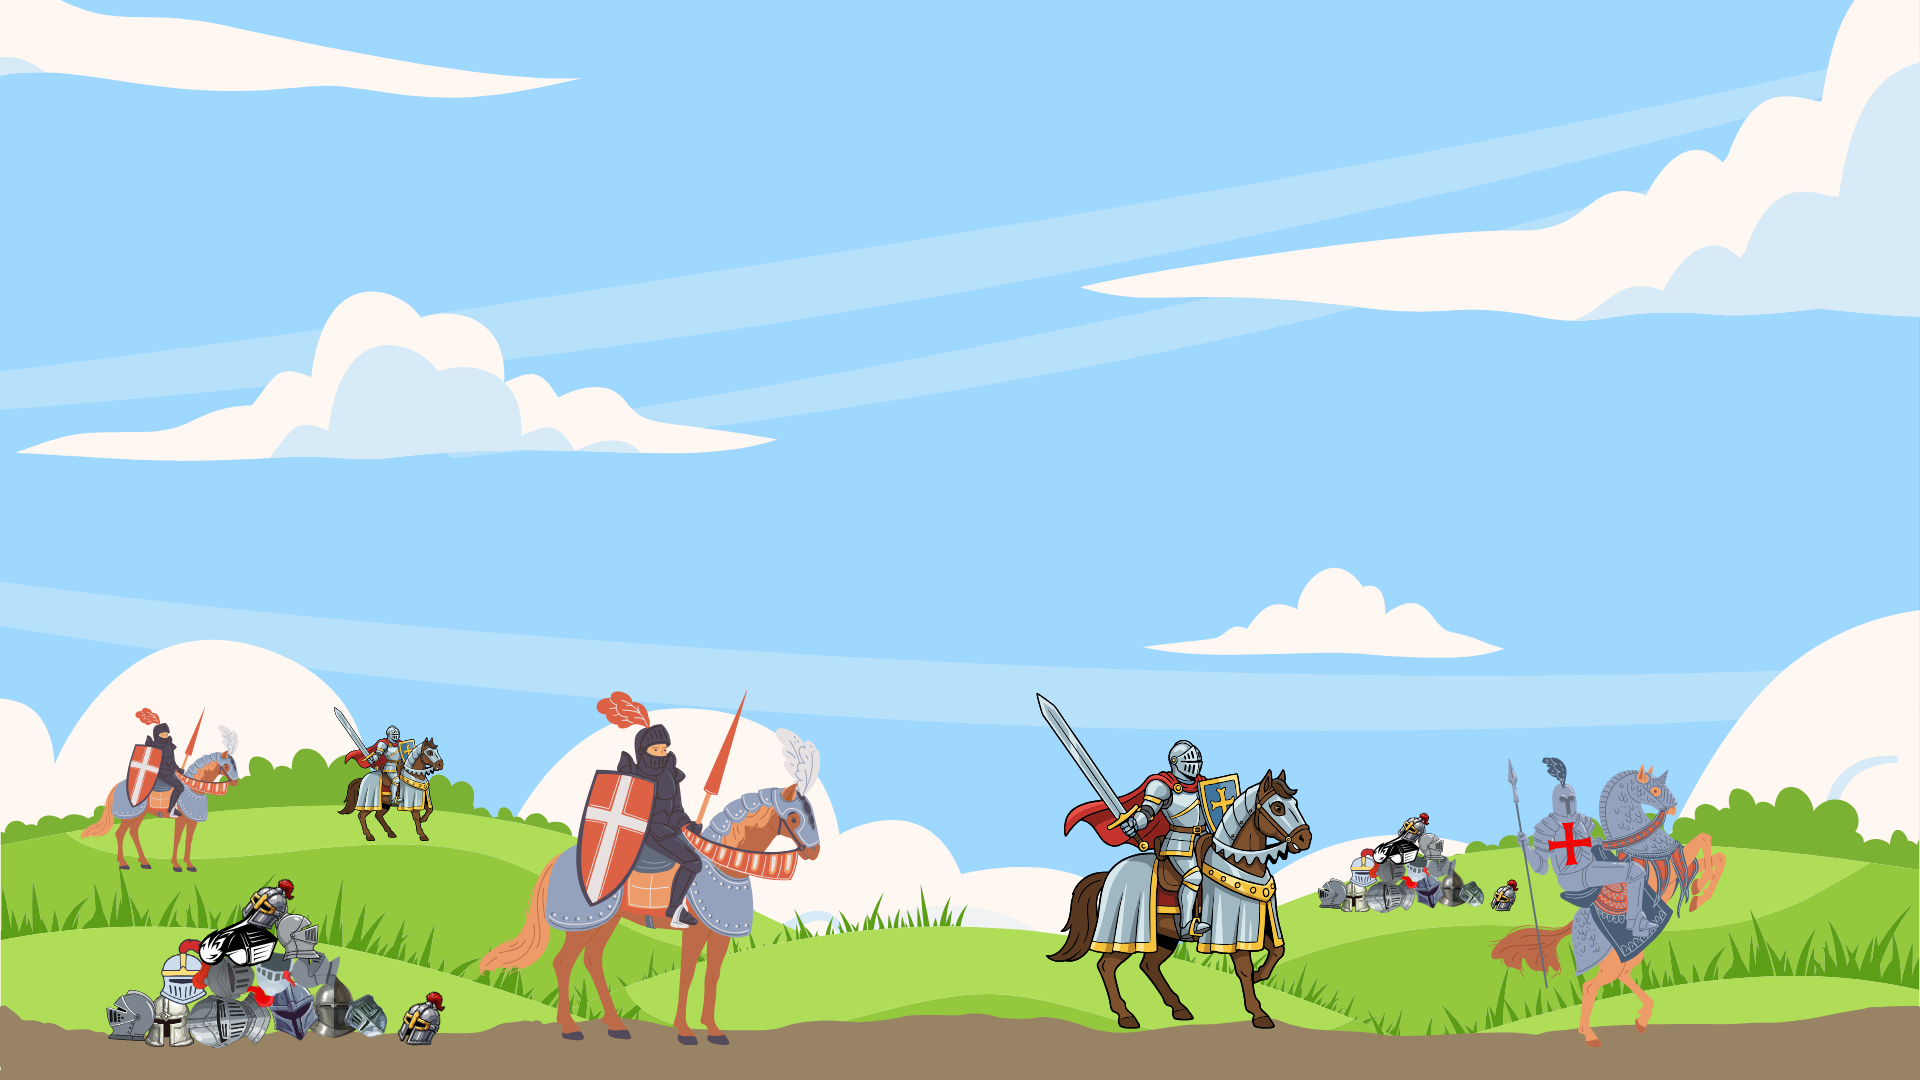
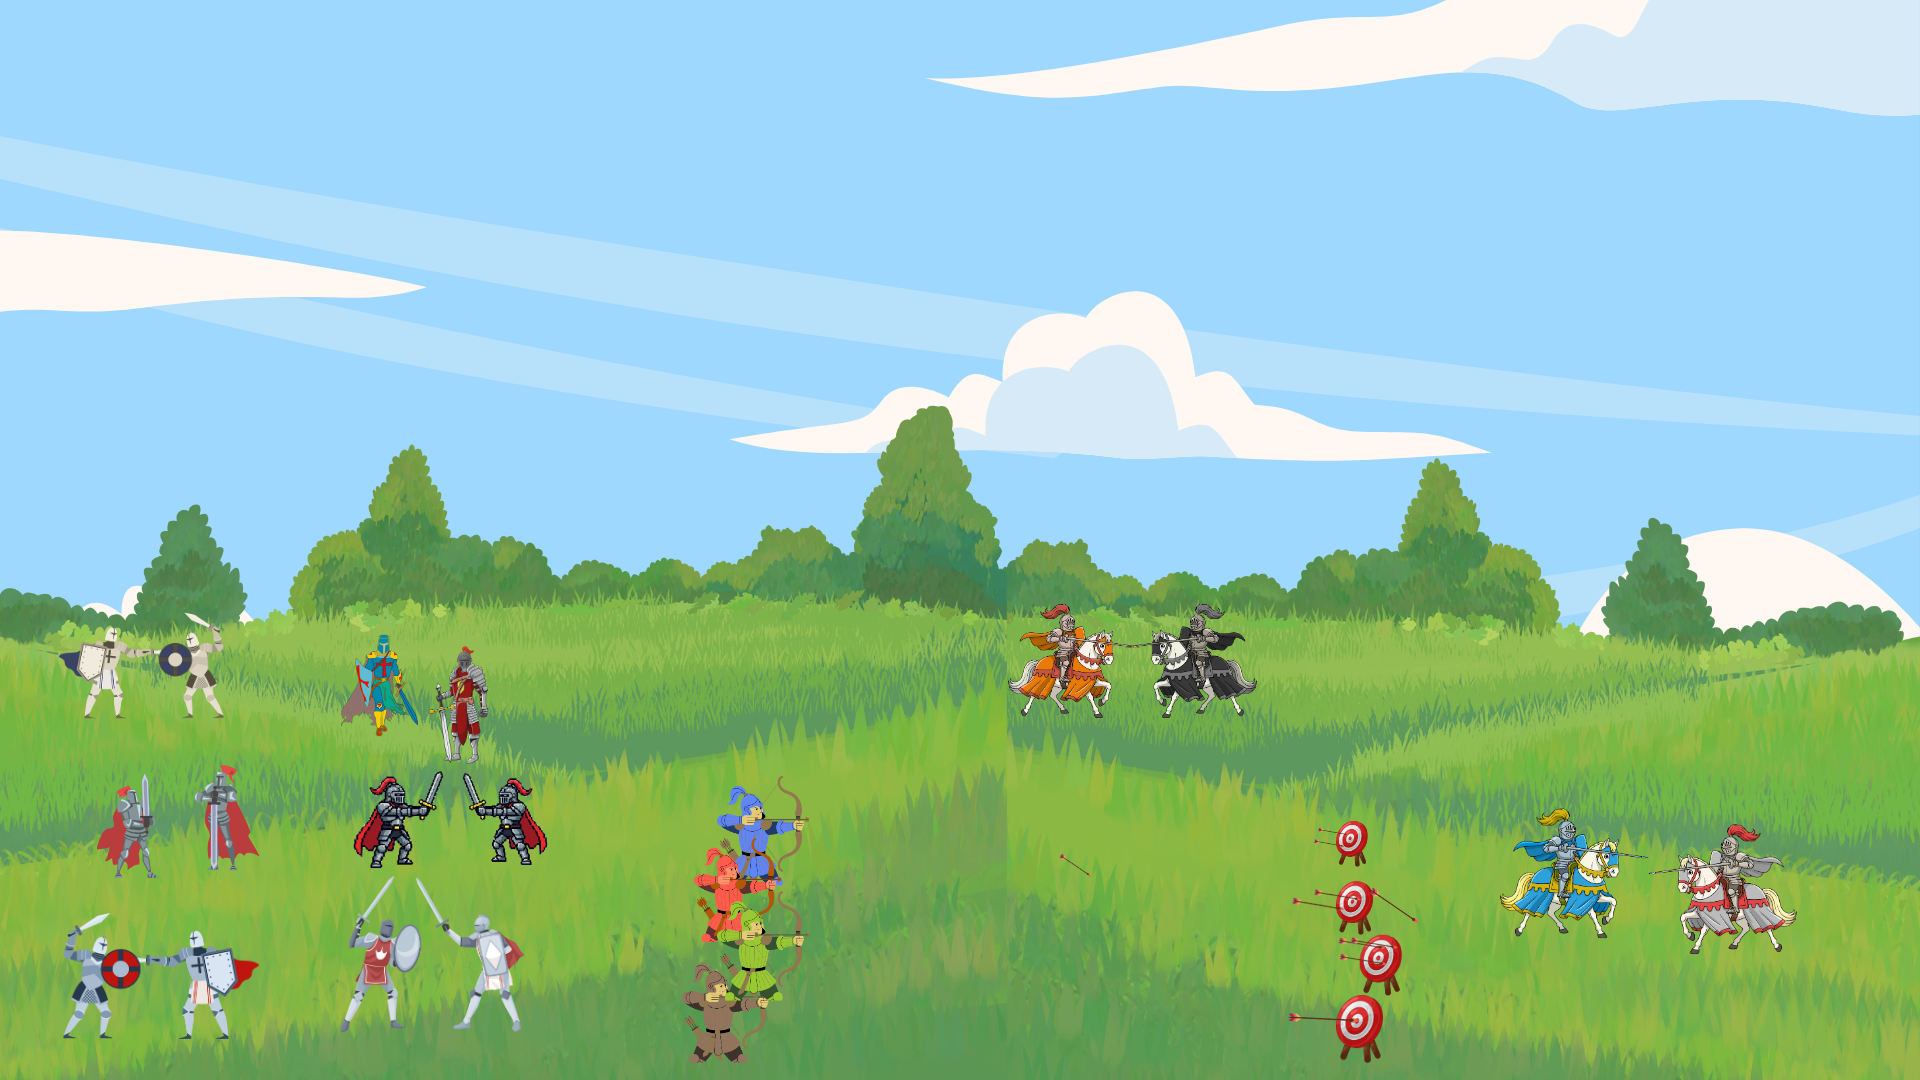
Add files via upload

diff --git a/Medival Project/scroll-gallery.html b/Medival Project/scroll-gallery.html
@@ -32,7 +32,7 @@
             display: flex;
             flex-direction: row;
             gap: 0;
-            animation: scrollLeft 315s linear infinite;
+            animation: scrollLeft 585s linear infinite;
         }
 
         .scroll-wrapper.paused {
@@ -109,7 +109,7 @@
                 transform: translateX(0);
             }
             100% {
-                transform: translateX(-700vw);
+                transform: translateX(-1300vw);
             }
         }
 
@@ -139,16 +139,16 @@
     <div class="gallery-container">
         <div class="scroll-wrapper" id="scrollWrapper">
             <div class="image-container">
-                <img src="Assests/1.png?v=2" alt="Image 1">
+                <img src="Assests/1 The Role of Serfs & Medieval Far Tools.png" alt="The Role of Serfs & Medieval Far Tools">
             </div>
             <div class="image-container">
-                <img src="Assests/2.png?v=2" alt="Image 2">
+                <img src="Assests/2 Manor (Donovan).png" alt="Manor (Donovan)">
             </div>
             <div class="image-container">
-                <img src="Assests/3.png" alt="Image 3">
+                <img src="Assests/3 Crime and Punishment(Hassan).png" alt="Crime and Punishment(Hassan)">
             </div>
             <div class="image-container">
-                <img src="Assests/4.png" alt="Image 4">
+                <img src="Assests/4 Worst Jobs.png" alt="Worst Jobs">
             </div>
             <div class="image-container">
                 <img src="Assests/5.png" alt="Image 5">
@@ -157,7 +157,25 @@
                 <img src="Assests/6.png" alt="Image 6">
             </div>
             <div class="image-container">
-                <img src="Assests/7.png" alt="Image 7">
+                <img src="Assests/7 Castles and Fortification.png" alt="Castles and Fortification">
+            </div>
+            <div class="image-container">
+                <img src="Assests/8 Crusades Journey.png" alt="Crusades Journey">
+            </div>
+            <div class="image-container">
+                <img src="Assests/9 Crusades Fight.png" alt="Crusades Fight">
+            </div>
+            <div class="image-container">
+                <img src="Assests/10 Crusades Leaving.png" alt="Crusades Leaving">
+            </div>
+            <div class="image-container">
+                <img src="Assests/11 Children.png" alt="Children">
+            </div>
+            <div class="image-container">
+                <img src="Assests/12 Black Death.png" alt="Black Death">
+            </div>
+            <div class="image-container">
+                <img src="Assests/13 Church Lutaaya.png" alt="Church Lutaaya">
             </div>
         </div>
     </div>
@@ -179,9 +197,9 @@
         let currentSpeed = 'normal';
 
         const speeds = {
-            slow: '470s',
-            normal: '315s',
-            fast: '160s'
+            slow: '875s',
+            normal: '585s',
+            fast: '295s'
         };
 
         let presentationMode = false;
@@ -215,7 +233,7 @@
         function startPresentation() {
             waitingForClick = false;
             document.body.classList.remove('waiting');
-            changeSpeed('slow');
+            changeSpeed('normal');
             scrollWrapper.classList.remove('paused');
         }
 

diff --git a/Medival Project/slideshow.html b/Medival Project/slideshow.html
@@ -118,16 +118,16 @@
 <body>
     <div class="slideshow-container">
         <div class="slide active">
-            <img src="Assests/1.png" alt="Image 1">
+            <img src="Assests/1 The Role of Serfs & Medieval Far Tools.png" alt="The Role of Serfs & Medieval Far Tools">
         </div>
         <div class="slide">
-            <img src="Assests/2.png" alt="Image 2">
+            <img src="Assests/2 Manor (Donovan).png" alt="Manor (Donovan)">
         </div>
         <div class="slide">
-            <img src="Assests/3.png" alt="Image 3">
+            <img src="Assests/3 Crime and Punishment(Hassan).png" alt="Crime and Punishment(Hassan)">
         </div>
         <div class="slide">
-            <img src="Assests/4.png" alt="Image 4">
+            <img src="Assests/4 Worst Jobs.png" alt="Worst Jobs">
         </div>
         <div class="slide">
             <img src="Assests/5.png" alt="Image 5">
@@ -136,7 +136,25 @@
             <img src="Assests/6.png" alt="Image 6">
         </div>
         <div class="slide">
-            <img src="Assests/7.png" alt="Image 7">
+            <img src="Assests/7 Castles and Fortification.png" alt="Castles and Fortification">
+        </div>
+        <div class="slide">
+            <img src="Assests/8 Crusades Journey.png" alt="Crusades Journey">
+        </div>
+        <div class="slide">
+            <img src="Assests/9 Crusades Fight.png" alt="Crusades Fight">
+        </div>
+        <div class="slide">
+            <img src="Assests/10 Crusades Leaving.png" alt="Crusades Leaving">
+        </div>
+        <div class="slide">
+            <img src="Assests/11 Children.png" alt="Children">
+        </div>
+        <div class="slide">
+            <img src="Assests/12 Black Death.png" alt="Black Death">
+        </div>
+        <div class="slide">
+            <img src="Assests/13 Church Lutaaya.png" alt="Church Lutaaya">
         </div>
 
         <div class="dots">
@@ -147,6 +165,12 @@
             <span class="dot" onclick="currentSlide(5)"></span>
             <span class="dot" onclick="currentSlide(6)"></span>
             <span class="dot" onclick="currentSlide(7)"></span>
+            <span class="dot" onclick="currentSlide(8)"></span>
+            <span class="dot" onclick="currentSlide(9)"></span>
+            <span class="dot" onclick="currentSlide(10)"></span>
+            <span class="dot" onclick="currentSlide(11)"></span>
+            <span class="dot" onclick="currentSlide(12)"></span>
+            <span class="dot" onclick="currentSlide(13)"></span>
         </div>
 
         <div class="controls">
@@ -156,7 +180,7 @@
         </div>
 
         <div class="slide-counter">
-            <span id="current-slide">1</span> / 7
+            <span id="current-slide">1</span> / 13
         </div>
     </div>
 